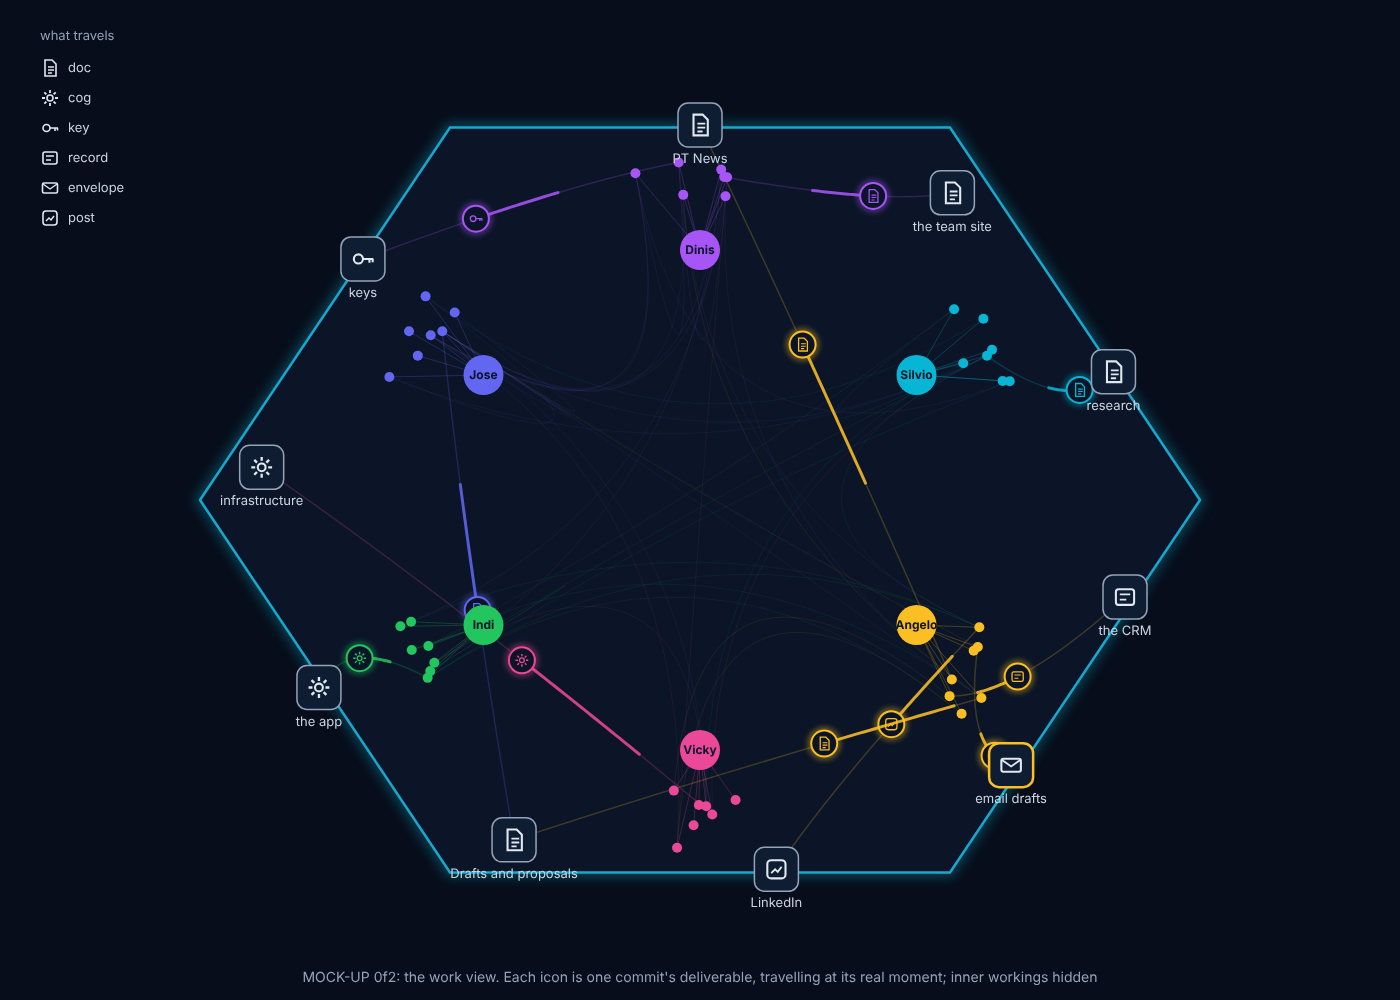
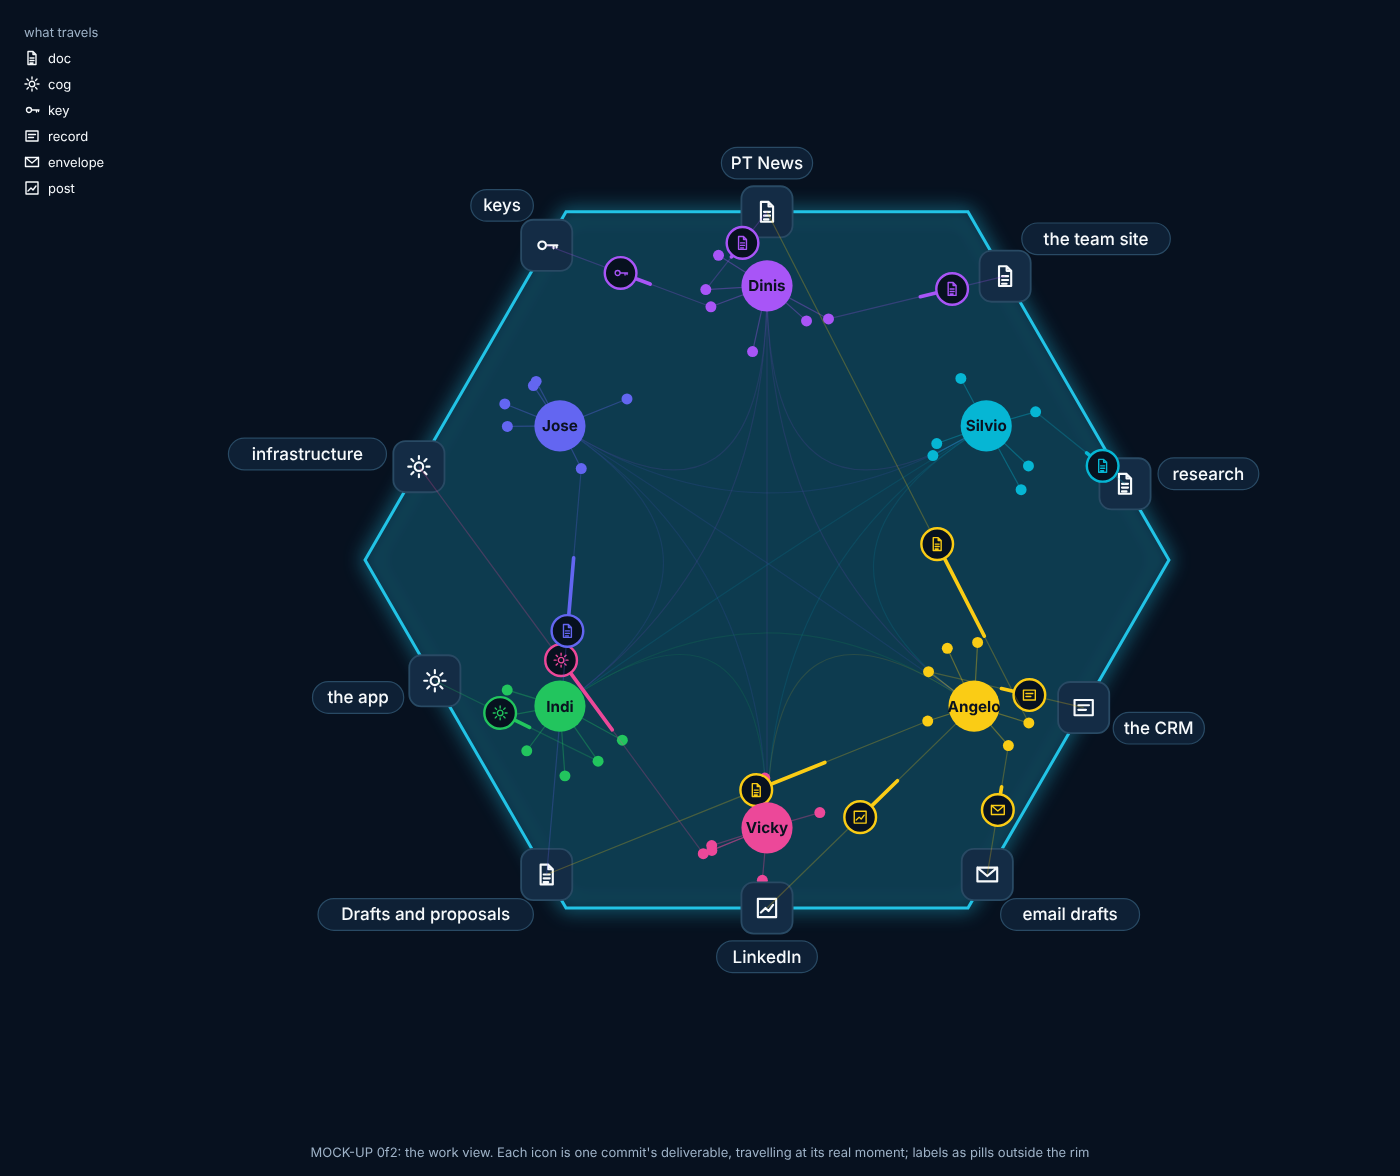
dev.work@PrompTugal.angelo: the work view's look notes folded in; mock-up redrawn, with a phone view
Scheduled run.

The spec is still a draft (its status line does not say "approved"), so
nothing is built. The one ready item: dashboard@'s look notes on the
mock-up (07d4d01) folded into spec-work-view.md and the mock-up redrawn.
- Destination names sit outside the rim, in pills on --rm-surface, never
  on the hexagon's edge or across a line; the logo squares stay on the rim.
- On a phone the legend folds into one line under the graph; names keep
  at least 12 px, squares and people grow so the graph fills the width.
- Light theme: pale sender colours (Angelo's yellow) are faint on white,
  so the travelling icon's stroke darkens in light mode (a test checks it).

Checked in Chromium at 1400 and 390 px, dark and light: no horizontal
scroll at 390.

Delivered: spec, the work view's mock-up at desktop and phone width, people/angelo/proposals/live-map/mockup-work-view-phone.png

Still open for Angelo, via the desk (the spec's questions 6 and 7):
approval, so the build starts with deliveries.mjs; and "day only" times
for past newsroom pieces in replay (recommended: yes, and ask Dinis's
team for a time field). My lane in lanes.json is still missing
(policy@'s to add).

Agent: dev.work@PrompTugal.angelo
Issue: WS-08
For: dashboard@PrompTugal.angelo
For: desk.conductor@PrompTugal.angelo
Outside: people/angelo/proposals/live-map/spec-work-view.md; my prompt names it (spec-new-agents.md, 3aefaed)
[…]

diff --git a/people/angelo/proposals/live-map/spec-work-view.md b/people/angelo/proposals/live-map/spec-work-view.md
@@ -18,6 +18,9 @@ Today the map and the live graph draw **exchanges** (who addressed whom). The wo
 
 **The mock-up** (drawn from the rules below, positions illustrative): ![the work view](mockup-work-view.png)
 
+**At a phone's width** (390 px, dark and light; redrawn on 8 November with dashboard@'s look notes, 07d4d01): ![the work view on a phone](mockup-work-view-phone.png)
+
+
 ## Part 1: the work view (0f2)
 
 ### What it looks like
@@ -25,6 +28,9 @@ Today the map and the live graph draw **exchanges** (who addressed whom). The wo
 - **The live graph's look, unchanged** (dev.map@ owns live.js and the layouts): the people ring, each person's agents around them, their colours, the hexagon. The work view is a **view** of the same graph (a switch beside the layouts: "Exchanges | Work"), not a new page.
 - **Ten destinations at the rim**, in rounded squares like 00b's systems, each with its **real public logo or favicon** where one exists (Angelo's answer 3): PT News, the team site, research, infrastructure, the app, keys, the CRM, email drafts, LinkedIn, and **Drafts and proposals** (the generic one).
 - **The logos:** fetched once, by hand, from each destination's own public site (its favicon or the logo it publishes), committed in `people/angelo/app/work-logos/` with a `SOURCES.md` line each (the address and the date read), never hot-linked, shown small and unaltered, always beside the destination's name. A destination with no public mark (email drafts, Drafts and proposals, infrastructure, research) keeps a plain mark in the graph's style.
+- **The destinations' names** (dashboard@'s look notes, 07d4d01): each name sits **outside the rim**, in a pill on `--rm-surface` with a `--rm-border` edge, never on the hexagon's edge or across a line, so it reads on a phone; the destination's square (its logo) stays on the rim. On a phone the names keep at least 12 px and the squares grow, so the graph fills the width.
+- **The legend** ("what travels", the six icons): beside the graph on a desktop; on a phone it folds into **one line under the graph**, icons and words, no heading.
+- **Light theme:** a travelling icon is drawn on `--rm-bg` with its sender's colour as the stroke; the pale colours (Angelo's yellow) are too faint on white in the mock-up, so in light mode the icon's stroke uses a darker shade of the same colour, checked for contrast in the tests.
 - **Six icons** (approved, answer 1): doc, cog, key, record, envelope, post (the mock-up's legend). The icon is the kind of thing made; the destination is where it went. A doc can go to PT News, the site, research or Drafts.
 - **A delivery** travels from the agent (or the person, for a commit by a human) to its destination along a curved line in the sender's colour, the icon riding at its head, about 3 seconds; the destination's square lights when it lands and keeps a small count for the window shown ("PT News 4").
 - **Inner workings are hidden**: seals, snapshots, STATE files, ledgers, estimates, pulses, reviews, release commits and generated pages never travel (the rule table's "hidden" rows).

diff --git a/people/angelo/map/work/STATE.md b/people/angelo/map/work/STATE.md
@@ -3,7 +3,7 @@
 First run, 8 November 2026 (09:51 to about 10:15 UTC). Backlog 0f2 (the work view) and 0f3 (the WhatsApp clip), from the desk's 3aefaed (pushed by riskmandate-angelo).
 
 ## Open
-- **Waiting on Angelo's approval** of spec-work-view.md (people/angelo/proposals/live-map/). His five answers (884ff5ca, pushed by riskmandate-angelo) are folded in (third run); two questions left: may it say "approved", and the newsroom's day-only times. Nothing is built until its status line says "approved". The mock-up still shows plain marks, not logos.
+- **Waiting on Angelo's approval** of spec-work-view.md (people/angelo/proposals/live-map/). His five answers (884ff5ca, pushed by riskmandate-angelo) are folded in (third run); two questions left: may it say "approved", and the newsroom's day-only times. Nothing is built until its status line says "approved". The mock-up still shows plain marks, not logos (the logos are fetched in the build).
 - Reviewer: dashboard@PrompTugal.angelo from 8 November (251d793b), not dev@.
 - The clip's section is in spec-work-view.md, not spec-realtime.md as the backlog row says, to keep to my own files; the desk may want a one-line pointer there (dev.map@'s file).
 - Lane: lanes.json still has no entry for me at 11:55 UTC (policy@'s to add, 3aefaed; dev@ asked policy@ in a276b6dd), so the gate's check 21 stays red on my commits.
@@ -14,4 +14,4 @@ First run, 8 November 2026 (09:51 to about 10:15 UTC). Backlog 0f2 (the work vie
 1,978 non-release commits, 932 deliver by the rule table: site 574, infrastructure 235, app 116, keys 98, drafts 77, CRM 13, research 4. 22 "Delivered:" lines so far, none yet kind-first.
 
 ## Last run
-Third run, 8 November about 11:52 UTC: folded Angelo's answers into the spec (logos, site features only: 163 commits not 574, the newsroom read live, square clip). Checked the newsroom's files: CORS open, max-age 600, dates only. Next run: if approved, start deliveries.mjs (the rule table, a test per row); else wait.
+Fourth run, 8 November about 12:51 UTC: still not approved. Folded dashboard@'s look notes (07d4d01) into the spec: names as pills outside the rim, the legend in one line under the graph on a phone, a darker stroke for pale colours in light mode; redrew mockup-work-view.png and added mockup-work-view-phone.png (390 px, dark and light). dashboard@ brought my third run onto dev (c92639e). Next run: if approved, start deliveries.mjs (the rule table, a test per row); else wait.
